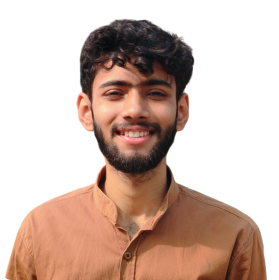
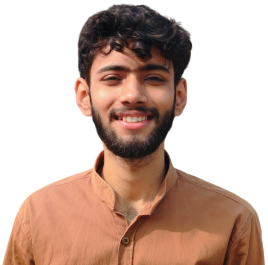
fixed team pictures. added faiz ali to team. added links to footer

diff --git a/public/whatsapp.tsx b/public/whatsapp.tsx
@@ -1,0 +1,23 @@
+export default function Whatsapp({
+  className,
+  fill,
+  color,
+}: {
+  className: string;
+  fill?: string;
+  color?: string;
+}) {
+  return (
+    <svg
+      xmlns="http://www.w3.org/2000/svg"
+      fill={fill}
+      color={color}
+      className={className}
+      width="25"
+      height="25"
+      viewBox="0 0 50 50"
+    >
+      <path d="M 25 2 C 12.309534 2 2 12.309534 2 25 C 2 29.079097 3.1186875 32.88588 4.984375 36.208984 L 2.0371094 46.730469 A 1.0001 1.0001 0 0 0 3.2402344 47.970703 L 14.210938 45.251953 C 17.434629 46.972929 21.092591 48 25 48 C 37.690466 48 48 37.690466 48 25 C 48 12.309534 37.690466 2 25 2 z M 25 4 C 36.609534 4 46 13.390466 46 25 C 46 36.609534 36.609534 46 25 46 C 21.278025 46 17.792121 45.029635 14.761719 43.333984 A 1.0001 1.0001 0 0 0 14.033203 43.236328 L 4.4257812 45.617188 L 7.0019531 36.425781 A 1.0001 1.0001 0 0 0 6.9023438 35.646484 C 5.0606869 32.523592 4 28.890107 4 25 C 4 13.390466 13.390466 4 25 4 z M 16.642578 13 C 16.001539 13 15.086045 13.23849 14.333984 14.048828 C 13.882268 14.535548 12 16.369511 12 19.59375 C 12 22.955271 14.331391 25.855848 14.613281 26.228516 L 14.615234 26.228516 L 14.615234 26.230469 C 14.588494 26.195329 14.973031 26.752191 15.486328 27.419922 C 15.999626 28.087653 16.717405 28.96464 17.619141 29.914062 C 19.422612 31.812909 21.958282 34.007419 25.105469 35.349609 C 26.554789 35.966779 27.698179 36.339417 28.564453 36.611328 C 30.169845 37.115426 31.632073 37.038799 32.730469 36.876953 C 33.55263 36.755876 34.456878 36.361114 35.351562 35.794922 C 36.246248 35.22873 37.12309 34.524722 37.509766 33.455078 C 37.786772 32.688244 37.927591 31.979598 37.978516 31.396484 C 38.003976 31.104927 38.007211 30.847602 37.988281 30.609375 C 37.969311 30.371148 37.989581 30.188664 37.767578 29.824219 C 37.302009 29.059804 36.774753 29.039853 36.224609 28.767578 C 35.918939 28.616297 35.048661 28.191329 34.175781 27.775391 C 33.303883 27.35992 32.54892 26.991953 32.083984 26.826172 C 31.790239 26.720488 31.431556 26.568352 30.914062 26.626953 C 30.396569 26.685553 29.88546 27.058933 29.587891 27.5 C 29.305837 27.918069 28.170387 29.258349 27.824219 29.652344 C 27.819619 29.649544 27.849659 29.663383 27.712891 29.595703 C 27.284761 29.383815 26.761157 29.203652 25.986328 28.794922 C 25.2115 28.386192 24.242255 27.782635 23.181641 26.847656 L 23.181641 26.845703 C 21.603029 25.455949 20.497272 23.711106 20.148438 23.125 C 20.171937 23.09704 20.145643 23.130901 20.195312 23.082031 L 20.197266 23.080078 C 20.553781 22.728924 20.869739 22.309521 21.136719 22.001953 C 21.515257 21.565866 21.68231 21.181437 21.863281 20.822266 C 22.223954 20.10644 22.02313 19.318742 21.814453 18.904297 L 21.814453 18.902344 C 21.828863 18.931014 21.701572 18.650157 21.564453 18.326172 C 21.426943 18.001263 21.251663 17.580039 21.064453 17.130859 C 20.690033 16.232501 20.272027 15.224912 20.023438 14.634766 L 20.023438 14.632812 C 19.730591 13.937684 19.334395 13.436908 18.816406 13.195312 C 18.298417 12.953717 17.840778 13.022402 17.822266 13.021484 L 17.820312 13.021484 C 17.450668 13.004432 17.045038 13 16.642578 13 z M 16.642578 15 C 17.028118 15 17.408214 15.004701 17.726562 15.019531 C 18.054056 15.035851 18.033687 15.037192 17.970703 15.007812 C 17.906713 14.977972 17.993533 14.968282 18.179688 15.410156 C 18.423098 15.98801 18.84317 16.999249 19.21875 17.900391 C 19.40654 18.350961 19.582292 18.773816 19.722656 19.105469 C 19.863021 19.437122 19.939077 19.622295 20.027344 19.798828 L 20.027344 19.800781 L 20.029297 19.802734 C 20.115837 19.973483 20.108185 19.864164 20.078125 19.923828 C 19.867096 20.342656 19.838461 20.445493 19.625 20.691406 C 19.29998 21.065838 18.968453 21.483404 18.792969 21.65625 C 18.639439 21.80707 18.36242 22.042032 18.189453 22.501953 C 18.016221 22.962578 18.097073 23.59457 18.375 24.066406 C 18.745032 24.6946 19.964406 26.679307 21.859375 28.347656 C 23.05276 29.399678 24.164563 30.095933 25.052734 30.564453 C 25.940906 31.032973 26.664301 31.306607 26.826172 31.386719 C 27.210549 31.576953 27.630655 31.72467 28.119141 31.666016 C 28.607627 31.607366 29.02878 31.310979 29.296875 31.007812 L 29.298828 31.005859 C 29.655629 30.601347 30.715848 29.390728 31.224609 28.644531 C 31.246169 28.652131 31.239109 28.646231 31.408203 28.707031 L 31.408203 28.708984 L 31.410156 28.708984 C 31.487356 28.736474 32.454286 29.169267 33.316406 29.580078 C 34.178526 29.990889 35.053561 30.417875 35.337891 30.558594 C 35.748225 30.761674 35.942113 30.893881 35.992188 30.894531 C 35.995572 30.982516 35.998992 31.07786 35.986328 31.222656 C 35.951258 31.624292 35.8439 32.180225 35.628906 32.775391 C 35.523582 33.066746 34.975018 33.667661 34.283203 34.105469 C 33.591388 34.543277 32.749338 34.852514 32.4375 34.898438 C 31.499896 35.036591 30.386672 35.087027 29.164062 34.703125 C 28.316336 34.437036 27.259305 34.092596 25.890625 33.509766 C 23.114812 32.325956 20.755591 30.311513 19.070312 28.537109 C 18.227674 27.649908 17.552562 26.824019 17.072266 26.199219 C 16.592866 25.575584 16.383528 25.251054 16.208984 25.021484 L 16.207031 25.019531 C 15.897202 24.609805 14 21.970851 14 19.59375 C 14 17.077989 15.168497 16.091436 15.800781 15.410156 C 16.132721 15.052495 16.495617 15 16.642578 15 z"></path>
+    </svg>
+  );
+}

diff --git a/app/team/page.tsx b/app/team/page.tsx
@@ -45,6 +45,11 @@ const coresData = [
     img: "/robin_justin.png",
   },
   {
+    name: "Faiz Ali",
+    department: "Sports",
+    img: "/faiz.png",
+  },
+  {
     name: "Mayank Jaiswal",
     department: "Sponsorship",
     img: "/mayank_jaiswal.png",
@@ -71,7 +76,7 @@ const coresData = [
 export default function EventsPage() {
   return (
     <>
-      <div className="w-full md:px-20 lg:px-40 xl:px-48">
+      <div className="w-full md:px-28 lg:px-48 xl:px-72">
         <h2
           className={`${eastSeaDokdo.className} text-8xl text-center my-12`}
           style={{ color: "#EA9C41" }}
@@ -82,12 +87,15 @@ export default function EventsPage() {
         <div className="grid md:grid-cols-3 gap-8">
           {secretaryData.map(({ img, name }, ind) => {
             return (
-              <div className="flex flex-col" key={`${name}_${ind}`}>
-                <div className="w-full border-4 border-white bg-[#FFBB6C] rounded-2xl">
+              <div
+                className="flex flex-col justify-center items-center"
+                key={`${name}_${ind}`}
+              >
+                <div className="w-full  max-w-[250px] border-4 border-white bg-[#FFBB6C] rounded-2xl overflow-hidden">
                   <img className="w-full h-auto" src={img} />
                 </div>
-                <div className="w-full bg-[#FFF8E8] text-center p-3 mt-6 rounded-2xl">
-                  <div className="uppercase font-semibold text-black text-xl">
+                <div className="w-full max-w-[250px]  text-center">
+                  <div className="uppercase bg-[#FFF8E8] font-semibold  p-3 mt-6 rounded-2xl border-3 border-[#ffbb6c] text-black text-xl">
                     {name}
                   </div>
                 </div>
@@ -107,10 +115,10 @@ export default function EventsPage() {
           {coresData.map(({ img, name, department }, ind) => {
             return (
               <div className="flex flex-col" key={`${name}_${ind}`}>
-                <div className="w-full border-4 border-white bg-[#FFBB6C] rounded-2xl">
+                <div className="w-full border-4 border-white bg-[#FFBB6C] rounded-2xl overflow-hidden">
                   <img className="w-full h-auto" src={img} />
                 </div>
-                <div className="w-full bg-[#FFF8E8] text-center p-3 mt-6 rounded-2xl">
+                <div className="w-full bg-[#FFF8E8] text-center p-3  border-3 border-[#ffbb6c] mt-6 rounded-2xl">
                   <div className="uppercase font-semibold text-black text-base md:text-lg">
                     {name}
                   </div>

diff --git a/components/Footer/index.tsx b/components/Footer/index.tsx
@@ -2,6 +2,7 @@ import Image from "next/image";
 import { Card } from "..";
 import Link from "next/link";
 import { Instagram, Linkedin, Youtube, Mail, Heart } from "lucide-react";
+import Whatsapp from "@/public/whatsapp";
 
 type FooterProps = {
   bg: string;
@@ -15,23 +16,28 @@ type SocialLink = {
 
 const data: SocialLink[] = [
   {
+    id: 6,
+    url: "https://whatsapp.com/channel/0029Va5uyDEFMqrXgIpcjS2B",
+    icon: <Whatsapp className="w-3 md:w-full" fill="white" />,
+  },
+  {
     id: 1,
-    url: "https://www.instagram.com/",
+    url: "https://www.instagram.com/paradox_iitmadras",
     icon: <Instagram className="w-3 md:w-full" />,
   },
   {
     id: 2,
-    url: "https://www.youtube.com/",
+    url: "https://www.youtube.com/@paradox_iitmadras",
     icon: <Youtube className="w-3 md:w-full" />,
   },
   {
     id: 3,
-    url: "https://www.linkedin.com/",
+    url: "https://in.linkedin.com/company/paradox-iitmadras",
     icon: <Linkedin className="w-3 md:w-full" />,
   },
   {
     id: 4,
-    url: "https://www.linkedin.com/",
+    url: "mailto:support@iitmparadox.org",
     icon: <Mail className="w-3 md:w-full" />,
   },
 ];
@@ -54,6 +60,7 @@ const Footer = ({ bg }: FooterProps) => {
                 <Link
                   key={id}
                   href={url}
+                  target="_blank"
                   className="bg-white/10 hover:bg-white/20 w-6 md:w-10 h-6 md:h-10 flex justify-center items-center  rounded-[20px]"
                 >
                   {icon}
